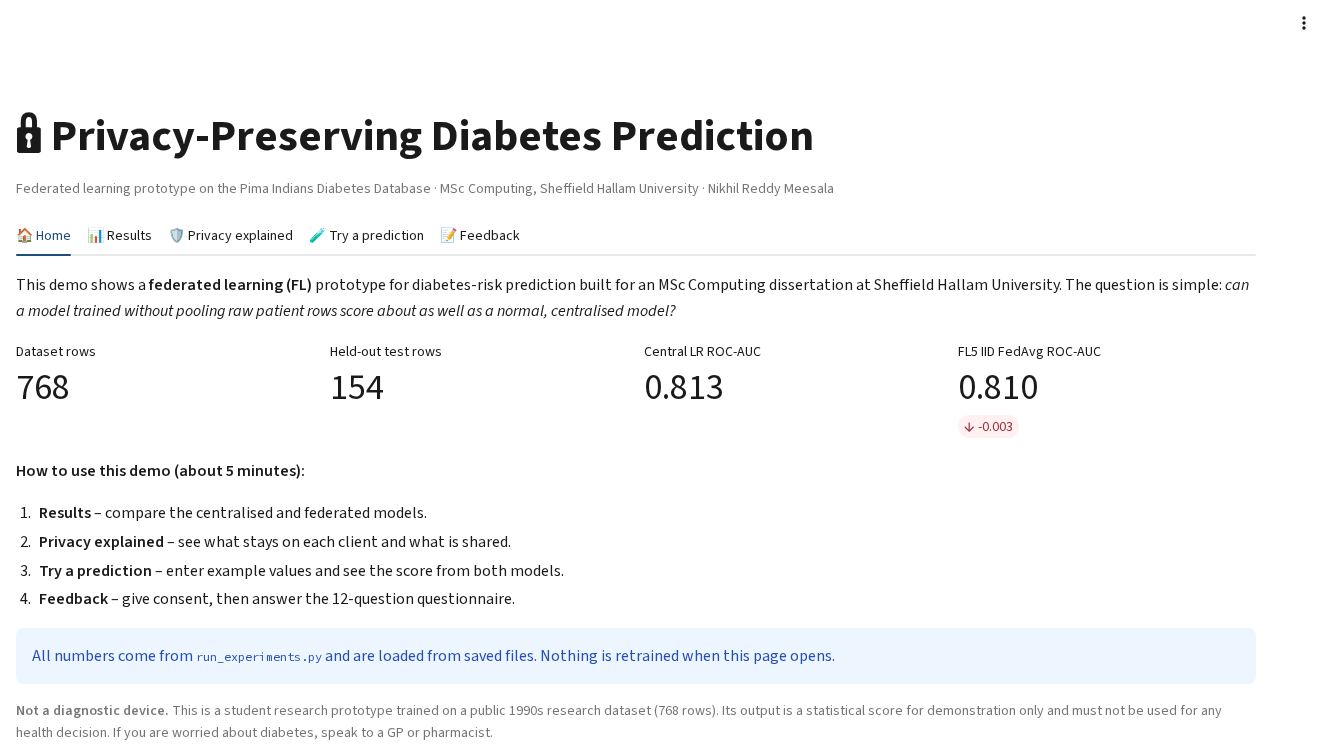
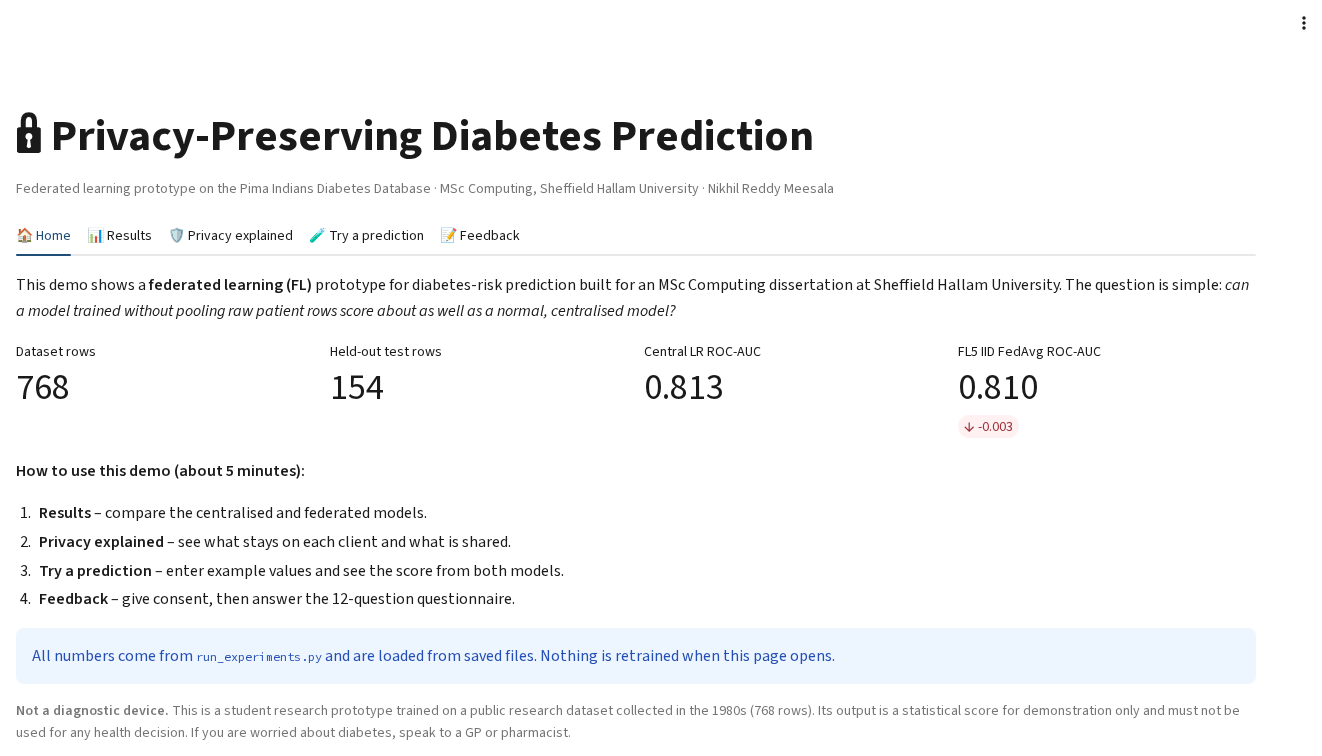
Polish Streamlit demo: Altair round chart, full-height table, viewer toolbar, refreshed screenshots

Changed region(s): [[0.031, 0.9127, 0.9304, 0.9735]]

diff --git a/app/streamlit_app.py b/app/streamlit_app.py
@@ -63,7 +63,7 @@ CONSENT_ITEMS = [
     "I agree that my anonymised answers can be used in this MSc dissertation.",
 ]
 DISCLAIMER = ("**Not a diagnostic device.** This is a student research prototype trained on a "
-              "public 1990s research dataset (768 rows). Its output is a statistical score for "
+              "public research dataset collected in the 1980s (768 rows). Its output is a statistical score for "
               "demonstration only and must not be used for any health decision. If you are "
               "worried about diabetes, speak to a GP or pharmacist.")
 
@@ -94,7 +94,7 @@ def ms_form_url() -> str:
 def fig(name, caption):
     path = FIGS / name
     if path.exists():
-        st.image(str(path), caption=caption, use_container_width=True)
+        st.image(str(path), caption=caption, width="stretch")
 
 
 # ----------------------------------------------------------------------- tabs
@@ -135,7 +135,7 @@ def tab_results(m):
     st.dataframe(view.style.format({c: "{:.3f}" for c in
                                     ["Accuracy", "Precision", "Recall", "F1", "ROC-AUC"]})
                  .highlight_max(subset=["ROC-AUC"], color="#d4edda"),
-                 hide_index=True, use_container_width=True, height=(len(view) + 1) * 35 + 3)
+                 hide_index=True, width="stretch", height=(len(view) + 1) * 35 + 3)
     st.caption("Positive class = diabetes (Outcome 1). Threshold 0.5. Same seeded split "
                "(random_state = 42) for every model.")
 
@@ -154,7 +154,7 @@ def tab_results(m):
                      color=alt.Color("label:N", title="Run"),
                      tooltip=["label", "round", alt.Tooltip(f"{metric}:Q", format=".3f")])
              .properties(height=320))
-    st.altair_chart(chart, use_container_width=True)
+    st.altair_chart(chart, width="stretch")
 
     st.subheader("Figures")
     a, b = st.columns(2)
@@ -212,7 +212,7 @@ digraph G { rankdir=TB; node [shape=box, style="rounded,filled", fontname=Helvet
     st.markdown("**Privacy–utility trade-off (5 clients, IID):** more noise → lower ROC-AUC.")
     st.dataframe(sweep[["noise_multiplier", "accuracy", "f1", "roc_auc"]].rename(columns={
         "noise_multiplier": "Noise σ", "accuracy": "Accuracy", "f1": "F1", "roc_auc": "ROC-AUC"})
-        .style.format("{:.3f}"), hide_index=True, use_container_width=True)
+        .style.format("{:.3f}"), hide_index=True, width="stretch")
 
 
 def tab_predict():
